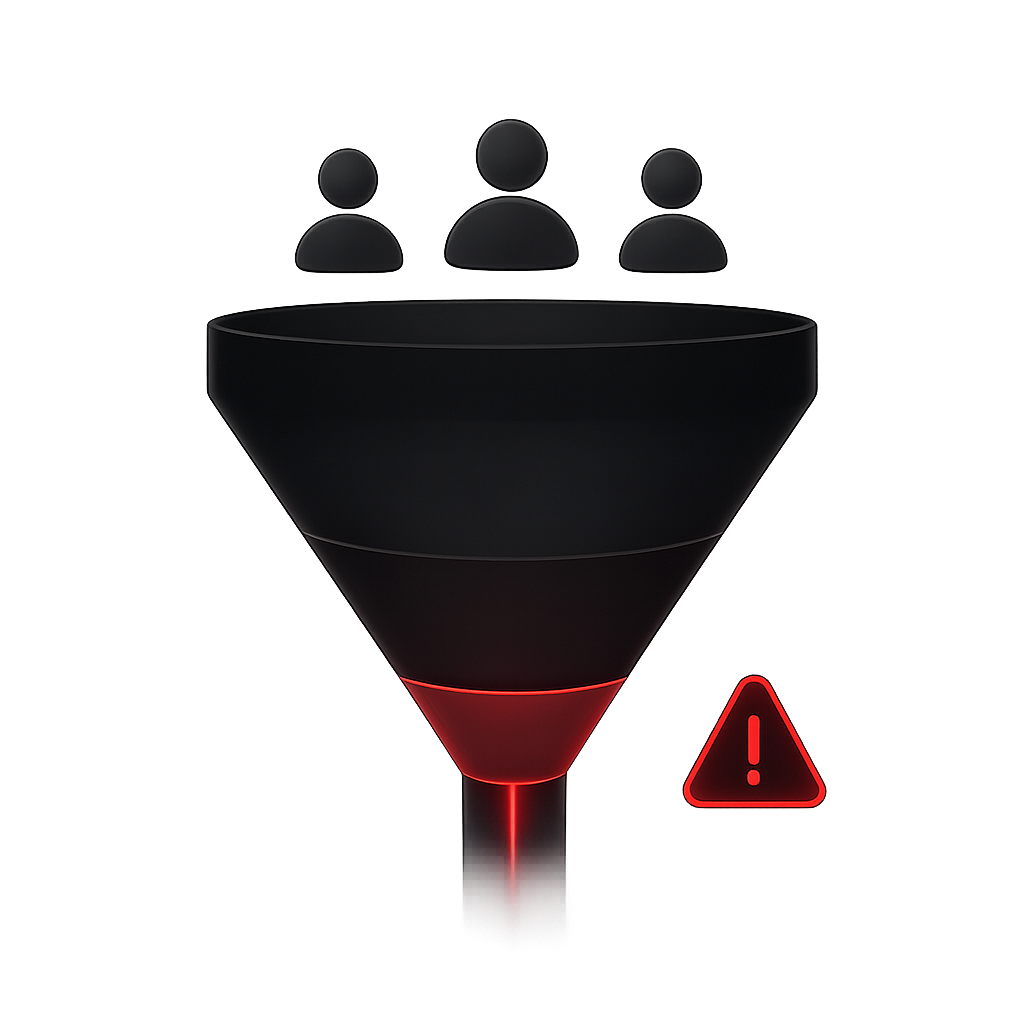
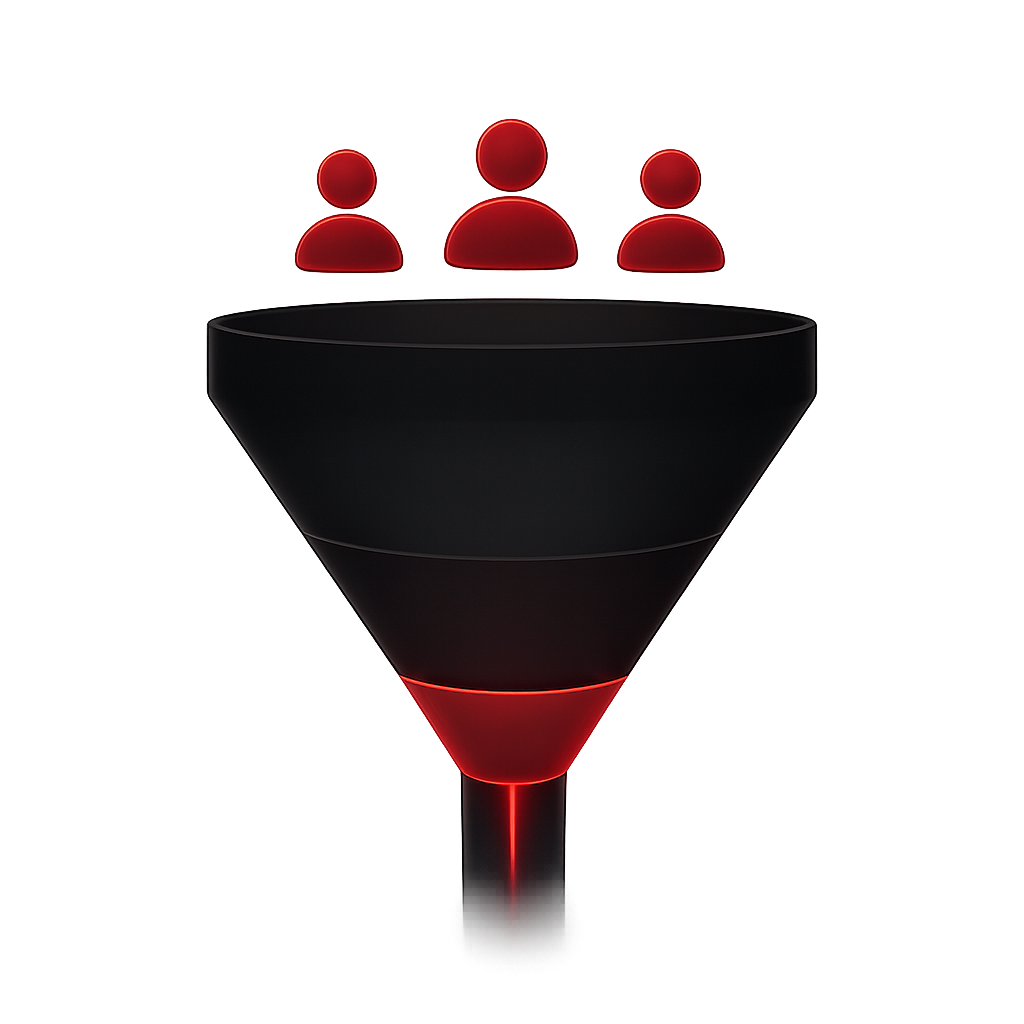
Mejorar diseño Problem

diff --git a/app/components/ui/problems/FunnelProblem.tsx b/app/components/ui/problems/FunnelProblem.tsx
@@ -31,6 +31,15 @@ blur-[140px]
     bg-red-500/15
   "
 />
+<div
+  className="
+    absolute
+    inset-0
+    opacity-[0.06]
+    [background-image:linear-gradient(rgba(255,255,255,.08)_1px,transparent_1px),linear-gradient(90deg,rgba(255,255,255,.08)_1px,transparent_1px)]
+    [background-size:28px_28px]
+  "
+/>
 <motion.div
   animate={{
     scale: [1, 1.08, 1],
@@ -67,11 +76,12 @@ blur-[140px]
     ease: "easeInOut",
   }}
   className="
-  relative
-  z-20
-  overflow-hidden
-  rounded-2xl
-  drop-shadow-[0_0_35px_rgba(255,70,70,.18)]
+relative
+z-20
+-mt-6
+overflow-hidden
+rounded-2xl
+drop-shadow-[0_0_35px_rgba(255,70,70,.18)]
 "
 >
   <Image
@@ -104,30 +114,6 @@ blur-[140px]
     from-red-500/45
     to-transparent
     blur-xl
-  "
-/>
-  <motion.div
-  animate={{
-    x: [-120, 220],
-  }}
-  transition={{
-    duration: 2,
-    repeat: Infinity,
-    ease: "linear",
-    repeatDelay: 1,
-  }}
-  className="
-    pointer-events-none
-    absolute
-    top-0
-    h-full
-    w-10
-    rotate-12
-    bg-gradient-to-r
-    from-transparent
-    via-white/20
-    to-transparent
-    blur-md
   "
 />
 </motion.div>
@@ -176,23 +162,31 @@ blur-[140px]
 />
 <motion.div
   animate={{
-    scale: [1, 1.15, 1],
-    opacity: [0.6, 1, 0.6],
+    y: [0, -3, 0],
+    scale: [1, 1.02, 1],
   }}
   transition={{
-    duration: 1.8,
+    duration: 2,
     repeat: Infinity,
   }}
   className="
     absolute
-    right-[58px]
-top-[70px]
-    text-[42px]
-    text-red-500
-    drop-shadow-[0_0_18px_rgba(239,68,68,.8)]
+    left-1/2
+    top-[42px]
+    z-30
+    -translate-x-1/2
+    rounded-full
+    border
+    border-red-500/30
+    bg-red-500/10
+    px-4
+    py-2
+    backdrop-blur-sm
   "
 >
-    ⚠
+  <span className="text-sm font-medium text-red-300">
+    1.5% tasa de conversión
+  </span>
 </motion.div>
 {[...Array(10)].map((_, i) => (
   <motion.div
